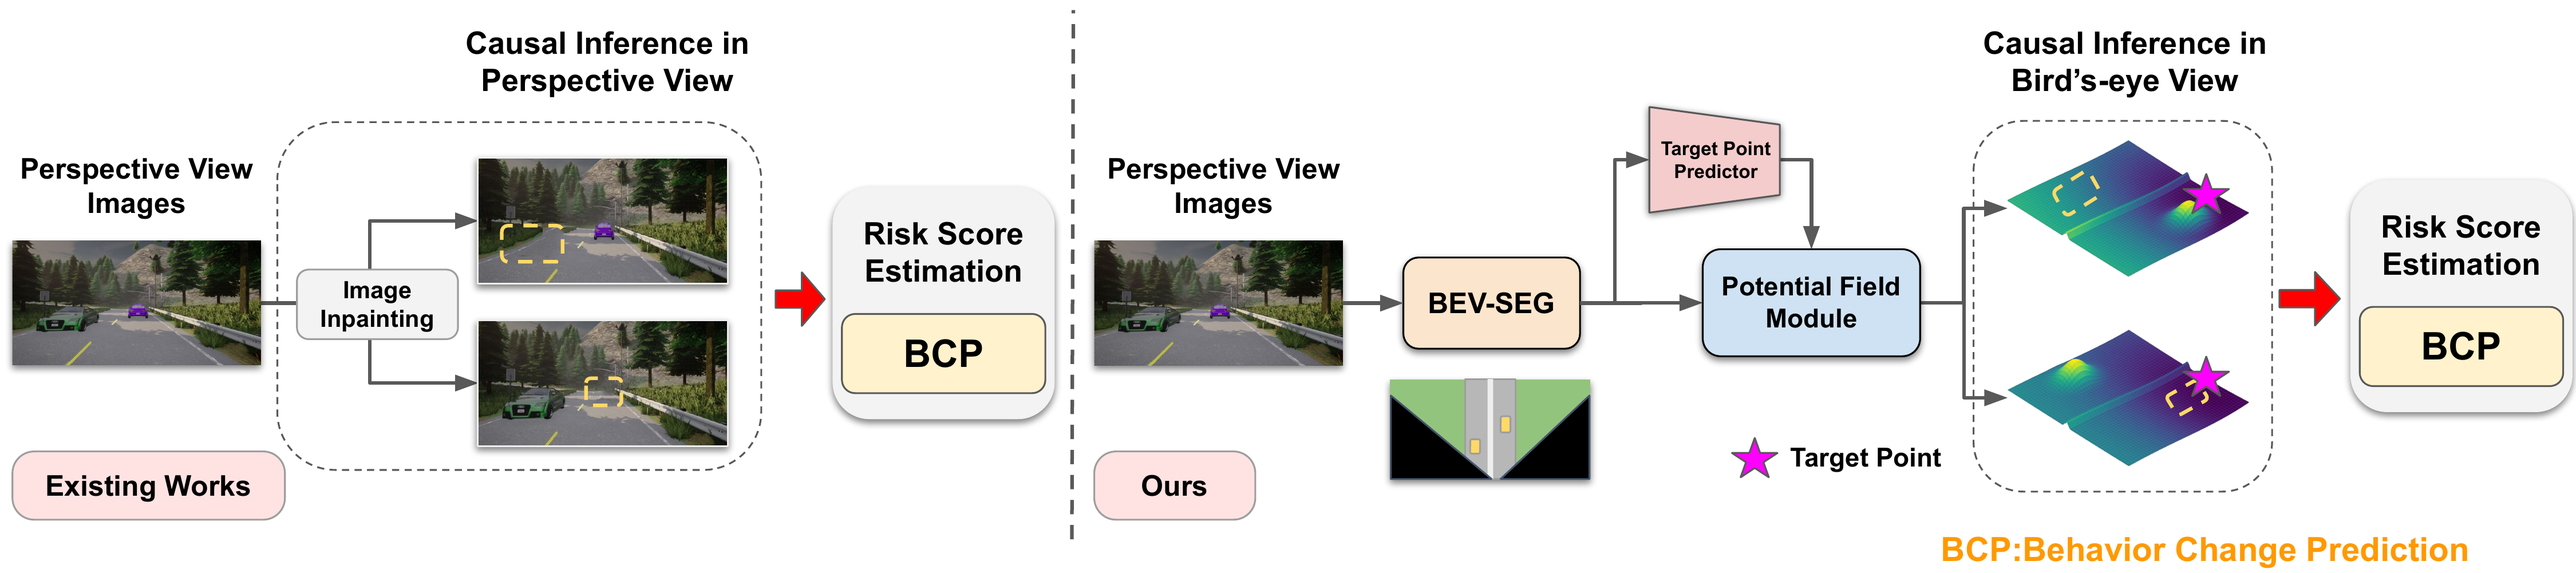
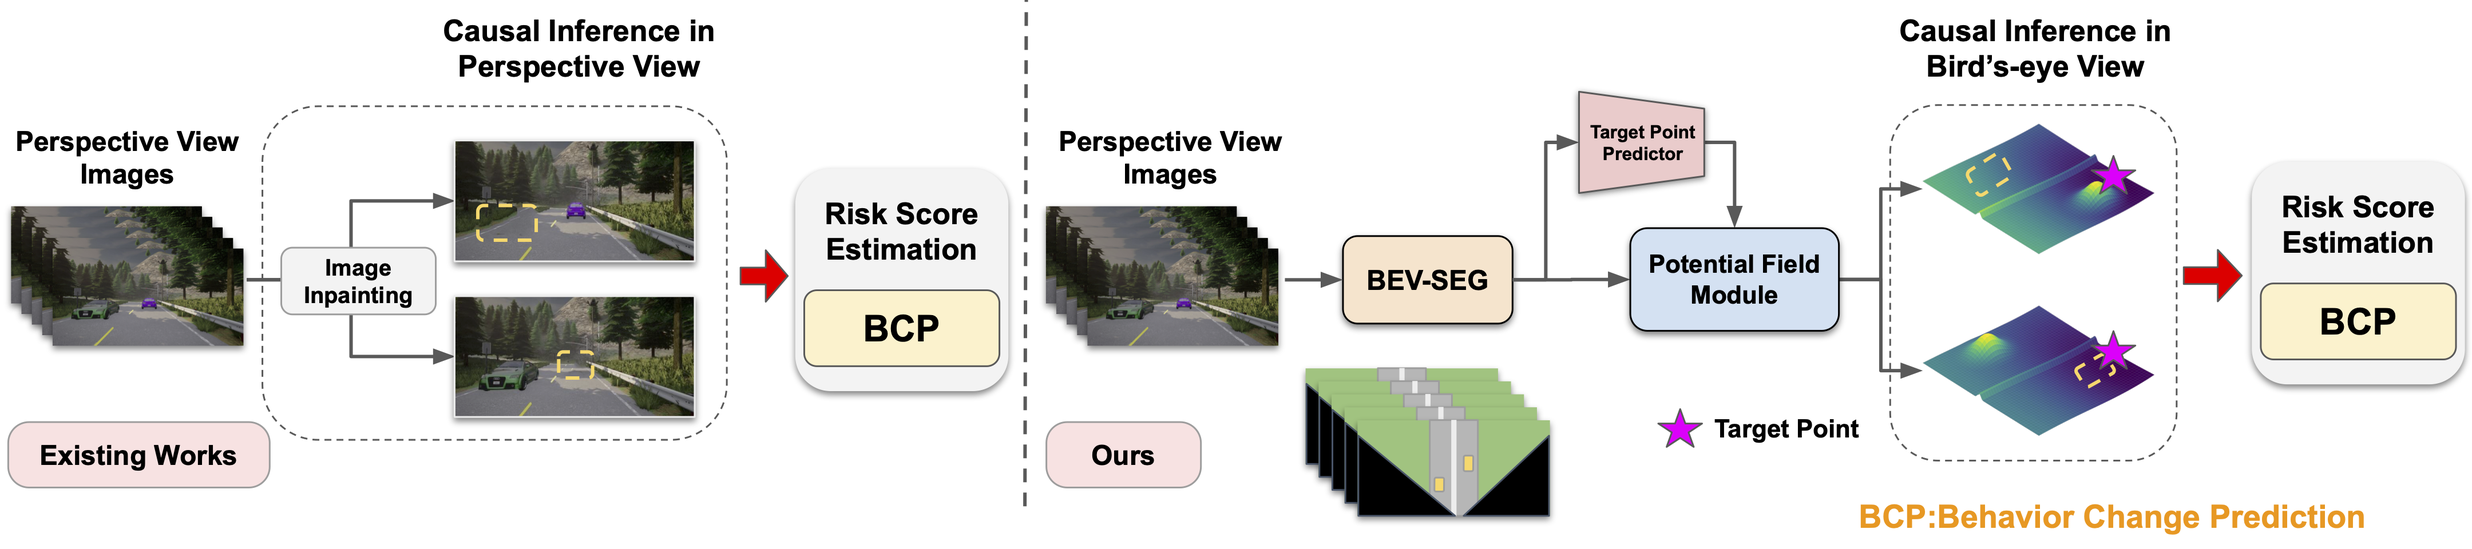
update ICRA title

diff --git a/PF-BCP/index.html b/PF-BCP/index.html
@@ -103,14 +103,32 @@
 		showSlides(slideIndex);
 	</script>
 
+	<!-- quick menu -->
+	<!-- <div class="quick-menu">
+		<strong>Quick Menu</strong>
+		<a href="#pagetop">Top</a>
+		<a href="#abstract">Abstract</a>
+		<a href="#method">Method</a>
+		<a href="#experiment">Experiment</a>
+		<a href="#qualitative_results">Qualitative Results</a>
+		<a href="#quantitative_results">Quantitative Results</a>
+		<a href="#realword_evaluation">Realword Evaluation</a>
+		<a href="#citation">Citation</a>
+	</div> -->
 
-	<section class="hero">
+	<section class="hero" id="pagetop">
 		<div class="hero-body">
 			<div class="container is-max-desktop">
 				<div class="columns is-centered">
 					<div class="column has-text-centered">
-						<h1 class="title is-2 publication-title">Potential Field as Scene Affordance
-							for <br> Behavior Change-Based <br> Visual Risk Object Identification</h1>
+						<h1 class="title is-3 publication-title" style="color: black !important;">
+							Potential Field as Scene Affordance for <br>
+							Behavior Change-Based <br>
+							Visual Risk Object Identification
+						</h1>
+						<!-- <h1 class="title is-2 publication-title">Potential Field as Scene Affordance
+							for <br> Behavior Change-Based <br> Visual Risk Object Identification</h1> -->
+
 						<div class="is-size-5 publication-authors">
 							<span class="author-block">
 								<a href="https://github.com/WaywayPao/">Pang-Yuan Pao</a>,
@@ -131,22 +149,26 @@
 								University</span>
 						</div>
 
-						<!-- <div class="is-size-5 publication-authors">
-							<span class="author-block">2025 IEEE International Conference on Robotics and Automation (ICRA)</span>
-						</div> -->
+						<div class="is-size-5 publication-authors">
+							<span class="author-block">2025 IEEE International Conference on Robotics and Automation
+								<b>(ICRA)</b></span>
+						</div>
 
 						<div class="column has-text-centered">
 							<div class="publication-links">
-								<!-- PDF Link. -->
+
+								<!-- IEEE(ICRA) Link. -->
 								<!-- <span class="link-block">
-									<a href="https://arxiv.org/abs/2409.15846"
+									<a href=""
 										class="external-link button is-normal is-rounded is-dark">
 										<span class="icon">
 											<i class="fas fa-file-pdf"></i>
 										</span>
-										<span>arXiv</span>
+										<span>IEEE</span>
 									</a>
 								</span> -->
+
+								<!-- arXiv Link. -->
 								<span class="link-block">
 									<a href="https://arxiv.org/abs/2409.15846"
 										class="external-link button is-normal is-rounded is-dark">
@@ -189,8 +211,19 @@
 										<span>Dataset</span>
 									</a>
 								</span>
-							</div>
 
+								<!-- Poster Link. -->
+								<span class="link-block">
+									<a href="https://drive.google.com/file/d/1ZRO-D6Zj5SBRgQkxpDyBdEwWe03KrX17/view?usp=sharing"
+										class="external-link button is-normal is-rounded is-dark">
+										<span class="icon">
+											<i class="fas fa-file-pdf"></i>
+										</span>
+										<span>Poster</span>
+									</a>
+								</span>
+
+							</div>
 						</div>
 					</div>
 				</div>
@@ -285,7 +318,7 @@
 		<div class="container is-max-desktop">
 
 			<!-- Methodology. -->
-			<section class="section is-small">
+			<section class="section is-small" id="method">
 				<div class="container is-max-desktop">
 					<div class="columns is-centered has-text-centered">
 						<div class="column is-four-fifths">
@@ -400,7 +433,7 @@
 
 
 			<!-- Experiment. -->
-			<section class="section is-small">
+			<section class="section is-small" id="experiment">
 				<div class="container is-max-desktop">
 					<div class="columns is-centered has-text-centered">
 						<div class="column is-five-fifths">
@@ -416,7 +449,7 @@
 							style="border-top:3px #000000 solid; border-bottom:3px #000000 solid; text-align: center;"
 							cellpadding="10" border='0' cellspacing="0">
 
-							<caption style="padding: 10px; text-align: left;line-height: 1.5;">
+							<caption style="padding: 0px; text-align: left;line-height: 1.5; margin-bottom: 0.5em;">
 								The <b>Driver Behavior</b> column shows the number of frames used for training,
 								while the <b>Traffic Participants</b> column shows the number of objects used for
 								testing.
@@ -596,7 +629,7 @@
 
 
 			<!-- Qualitative Results. -->
-			<section class="section is-small">
+			<section class="section is-small" id="qualitative_results">
 				<div class="container is-max-desktop">
 					<div class="columns is-centered has-text-centered">
 						<div class="column is-five-fifths">
@@ -732,7 +765,7 @@
 
 
 			<!-- Quautitative Results. -->
-			<section class="section is-small">
+			<section class="section is-small" id="quantitative_results">
 				<div class="container is-max-desktop">
 					<div class="columns is-centered has-text-centered">
 						<div class="column is-five-fifths">
@@ -1077,7 +1110,7 @@
 
 
 			<!-- Real-Word Evaluation. -->
-			<section class="section is-small">
+			<section class="section is-small" id="realword_evaluation">
 				<div class="container is-max-desktop">
 					<div class="columns is-centered has-text-centered">
 						<h2 class="title is-3">Real-Word Evaluation</h2>
@@ -1185,7 +1218,7 @@
 	</section>
 
 
-	<section class="section" id="BibTeX">
+	<section class="section" id="citation">
 		<div class="container is-max-desktop content">
 			<div class="columns is-centered">
 				<div class="column is-four-fifths">
@@ -1194,12 +1227,11 @@
 					</div>
 
 					<div class="content has-text-justified">
-						<pre><code>@article{pao2024PFBCP,
-    title   = {{Potential Field as Scene Affordance for Behavior Change-Based Visual Risk Object Identification}},
-    author  = {Pang-Yuan Pao and Shu-Wei Lu and Ze-Yan Lu and Yi-Ting Chen},
-    year    = {2024},
-    eprint  = {2409.15846},
-    archivePrefix = {arXiv}
+						<pre><code>@inproceedings{pao2025pfbcp,
+	title   = {{Potential Field as Scene Affordance for Behavior Change-Based Visual Risk Object Identification}},
+	author  = {Pang-Yuan Pao and Shu-Wei Lu and Ze-Yan Lu and Yi-Ting Chen},
+	journal = {IEEE International Conference on Robotics and Automation (ICRA)},
+	year    = {2025}
 }</code></pre>
 						<p>
 							If you have any questions, please contact <a

diff --git a/PF-BCP/pdf_to_image.py b/PF-BCP/pdf_to_image.py
@@ -1,6 +1,6 @@
 from pdf2image import convert_from_path
 
-file_name = f"teaser"
+file_name = f"framework"
 pdf_path = f'./{file_name}.pdf'
 
 if __name__ == "__main__":
